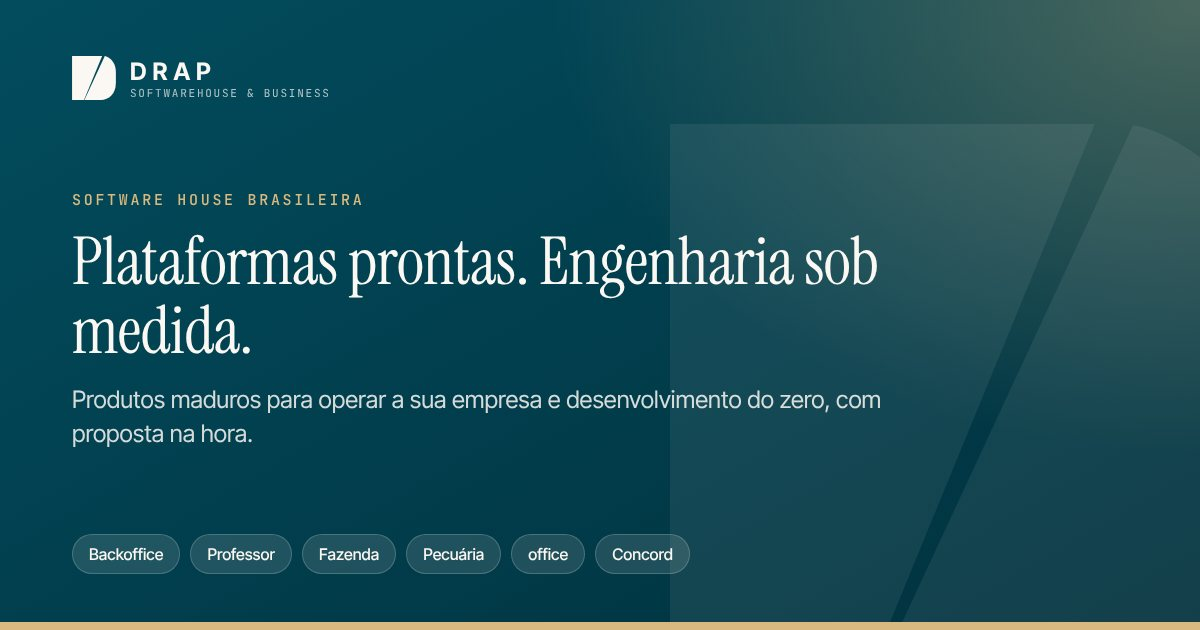
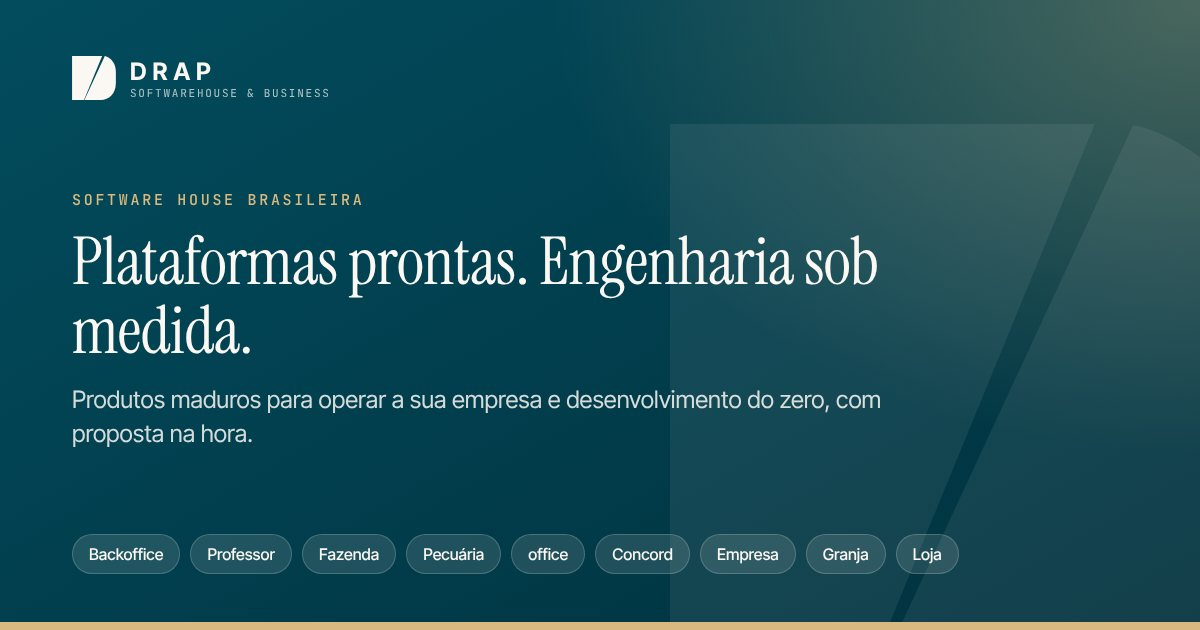
Empresa, Granja e Loja: proposta, imagens de compartilhamento e migração 010
- Base atualizada para a branch de produção (migrações 001–009).
- Migração renomeada para 010_empresa_granja_loja.sql.
- Plano de proposta de cada produto em lib/platform-plans.js: tipografia,
  prazo, faixas (Empresa e Granja seguem o preço público dos sites) e o que
  já vem incluído, para nunca cobrar à parte o que o produto entrega.
- Imagens Open Graph das três páginas e das páginas gerais (lista de produtos).

Claude-Session: https://claude.ai/code/session_01GEiZZjPdkMTw2nKEFCNja1

Changed region(s): [[0.5858, 0.8444, 0.8017, 0.9349]]

diff --git a/lib/platform-plans.js b/lib/platform-plans.js
@@ -43,6 +43,27 @@ export const PLANS = {
     market: { setup: [2500, 7000], monthly: [190, 790] },
     optional: ["pagamentos", "whatsapp", "nfe", "assinatura", "email", "bi"],
     covered: { migracao: "Implantação: trazemos sua base atual de clientes", mobile: "Apps para Android, Windows e desktop" } },
+  // Empresa e Granja têm preço público (empresa.drap.app.br/precos e granja.drap.app.br): as faixas seguem esses valores.
+  empresa: { fonts: { display: "Space Grotesk", sans: "Inter" }, weeks: 2,
+    market: { setup: [990, 4000], monthly: [49, 990] },
+    optional: ["erp", "migracao", "email", "sso"],
+    covered: { nfe: "NFS-e de serviço e NF-e de produto, direto da DRAP", banco: "Conciliação do extrato OFX e cobrança por boleto e PIX",
+      pagamentos: "Cobranças por boleto, PIX e cartão", whatsapp: "Assistente WhatsApp para consultas", ia: "IA que categoriza lançamentos e lê comprovantes",
+      api: "API REST, webhooks assinados e Google Sheets", bi: "Dashboards Pro com comparação entre meses e drill-down",
+      auditoria: "Auditoria de cada ação e verificação em duas etapas" } },
+  granja: { fonts: { display: "Fraunces", sans: "Inter" }, weeks: 2,
+    market: { setup: [500, 3000], monthly: [99, 250] },
+    optional: ["erp", "migracao", "email", "sso"],
+    covered: { nfe: "NF-e de venda de ovo e NFS-e", banco: "Contas bancárias, conciliação de extrato, boleto e PIX",
+      whatsapp: "Consulta da granja pelo WhatsApp", ia: "Assistente de IA para categorizar e ler nota", api: "Google Sheets, API e webhooks",
+      offline: "App do galpão que lança sem sinal", mobile: "App do galpão para Android", bi: "Dashboard com comparação entre meses, DRE e balanço",
+      auditoria: "Auditoria de cada ação e verificação em duas etapas" } },
+  loja: { fonts: { display: "Hanken Grotesk", sans: "Hanken Grotesk" }, weeks: 2,
+    market: { setup: [4000, 14000], monthly: [190, 690] },
+    optional: ["nfe", "email", "bi", "mobile"],
+    covered: { marketplace: "Loja online com catálogo, carrinho e pedidos", erp: "Integração nativa com o ERP Micro-F",
+      pagamentos: "Pagamento online, cálculo de frete e envio", migracao: "Catálogo montado a partir do ERP, de planilha ou de fotos",
+      ia: "Cadastro de produtos com IA (opcional)" } },
 };
 export const PLATFORM_TERMS =
   "Implantação: 50% na assinatura do contrato e 50% no go-live. Licença mensal a partir do go-live, " +

diff --git a/README.md b/README.md
@@ -109,5 +109,5 @@ O servidor local executa as funções de `api/` como a Vercel e aplica os mesmos
 
 - **Plataformas e contatos**: pelo painel `/admin`. As mudanças aparecem no site em até 1 minuto, por causa do cache da CDN.
 - **Prévia de uma plataforma**: as miniaturas ficam em `public/previews.js`, numa função por plataforma. Para usar um screenshot real, coloque a imagem em `public/assets/previews/` e preencha a coluna `preview_image` da plataforma, por exemplo `/assets/previews/tela.png`.
-- **Nova plataforma**: adicione o item em `public/platforms.js`, a prévia em `previews.js` e o texto em `platform-details.js`, todos com o mesmo `id`. Rode `npm run seed:gen` e crie uma migração em `db/migrations/` que insira a linha só quando o catálogo já existir, como a `002_empresa_granja_loja.sql`. Assim o banco de produção recebe a plataforma no próximo deploy, sem apagar o que foi editado pelo painel. Outra opção é inserir a linha direto na tabela `platforms`, pelo editor SQL do Neon.
+- **Nova plataforma**: adicione o item em `public/platforms.js`, a prévia em `previews.js` e o texto em `platform-details.js`, todos com o mesmo `id`. Rode `npm run seed:gen` e crie uma migração em `db/migrations/` que insira a linha só quando o catálogo já existir, como a `010_empresa_granja_loja.sql`. Assim o banco de produção recebe a plataforma no próximo deploy, sem apagar o que foi editado pelo painel. Outra opção é inserir a linha direto na tabela `platforms`, pelo editor SQL do Neon.
 - **Mudar o esquema**: crie `db/migrations/002_*.sql`. Ele é aplicado uma única vez no próximo deploy.
